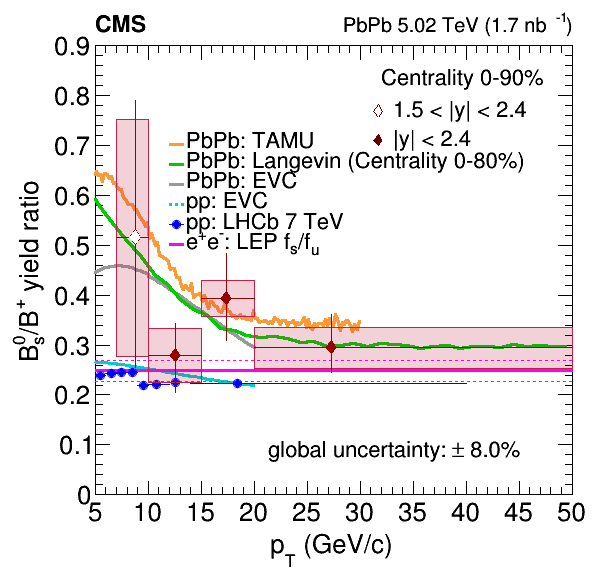
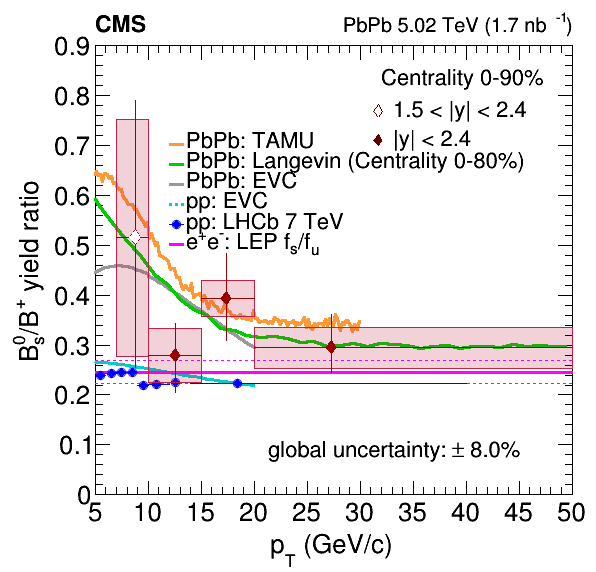
Updated with Correct Ratios

Changed region(s): [[0.2114, 0.6241, 0.9664, 0.6538], [0.151, 0.6241, 0.1812, 0.6538]]

diff --git a/PtAbscissa/plotPtMoreNewEPEM.C b/PtAbscissa/plotPtMoreNewEPEM.C
@@ -531,9 +531,11 @@ void plotPtMoreNewEPEM(bool bSavePlots       = 1,
 		float BsFracEPEM = 10.1;
 		float BsFracEPEMError = 0.8;
 		
-		float BsBPEPEM = BsFracEPEM/BPFracEPEM;
-		float BsBPEPEMError = BsBPEPEM *  TMath::Sqrt(BPFracEPEMError/BPFracEPEM * BPFracEPEMError/BPFracEPEM  + BsFracEPEMError/BsFracEPEM  * BsFracEPEMError/BsFracEPEM );
+//		float BsBPEPEM = BsFracEPEM/BPFracEPEM;
+//		float BsBPEPEMError = BsBPEPEM *  TMath::Sqrt(BPFracEPEMError/BPFracEPEM * BPFracEPEMError/BPFracEPEM  + BsFracEPEMError/BsFracEPEM  * BsFracEPEMError/BsFracEPEM );
 
+		float BsBPEPEM = 0.246;
+		float BsBPEPEMError = 0.023;
 
 		TLine *EPEM = new TLine(5,BsBPEPEM,50,BsBPEPEM);
 		EPEM->SetLineStyle(1);
